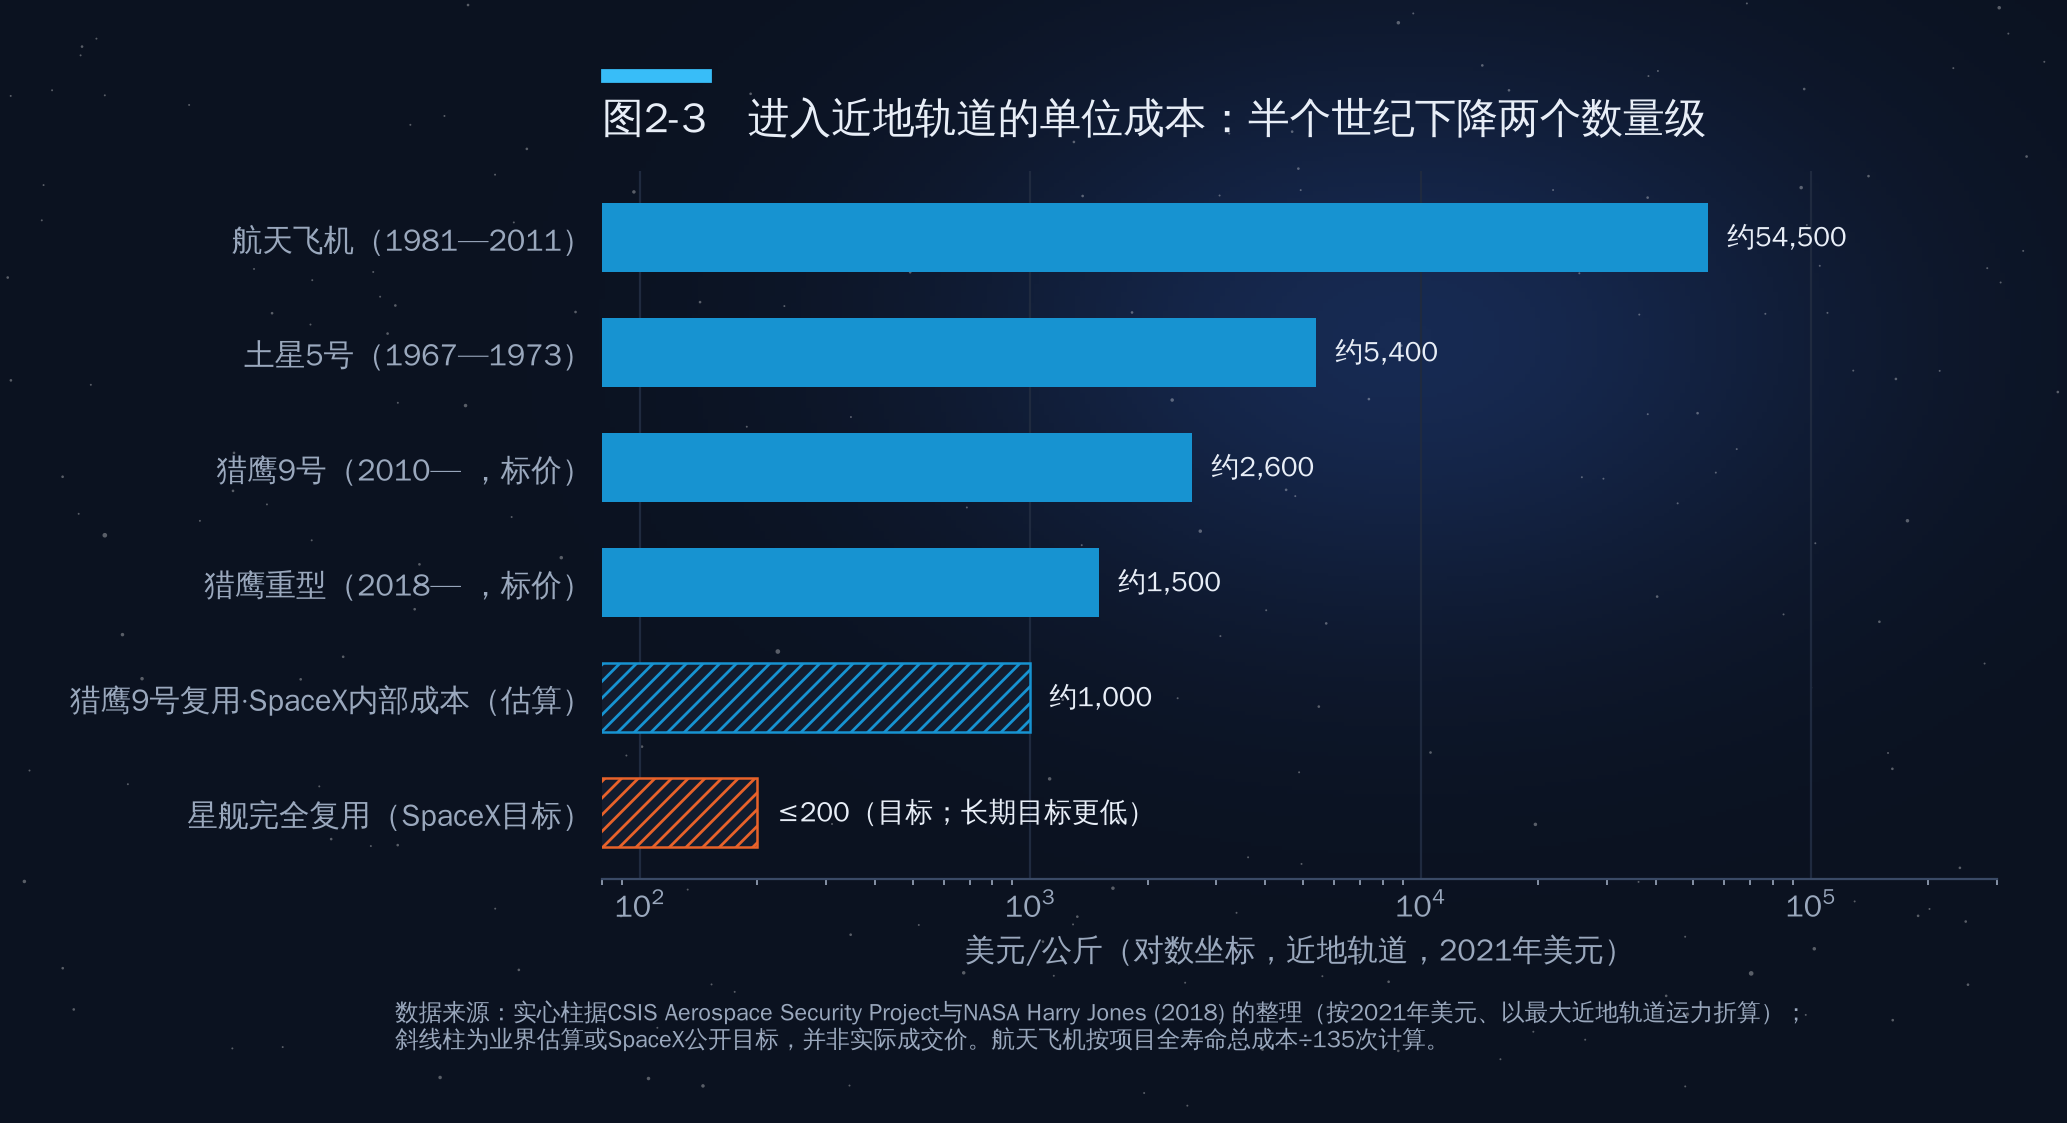
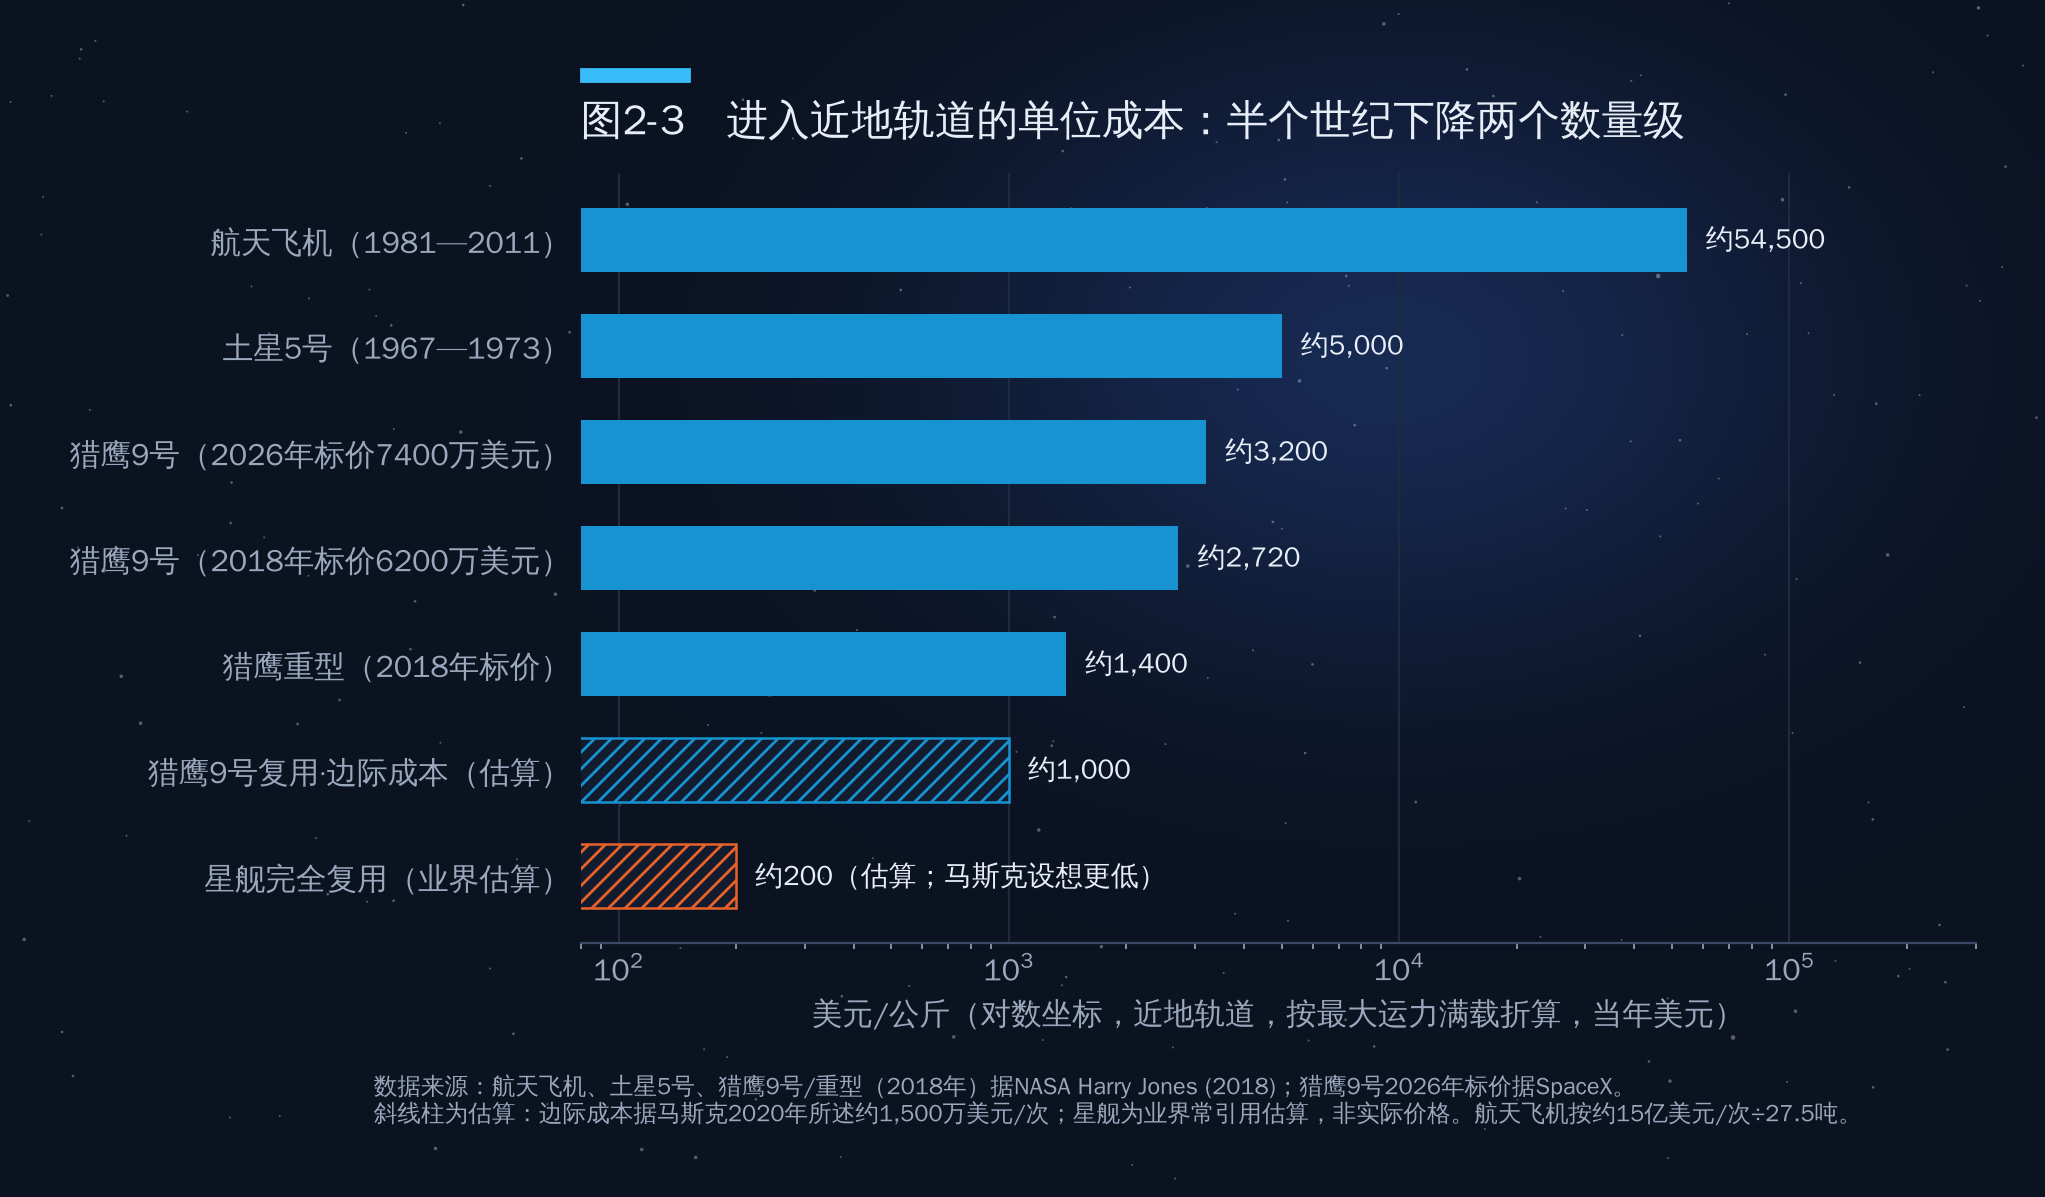
WIP: third-round fact-check edits (Parts I, IV, V)
Claude-Session: https://claude.ai/code/session_014tmLkR5ogaDPRCKC77QLgm

diff --git a/doha-space-economy/part1/charts/fig2-3_cost_per_kg.py b/doha-space-economy/part1/charts/fig2-3_cost_per_kg.py
@@ -2,24 +2,25 @@ import sys, pathlib
 sys.path.insert(0, str(pathlib.Path(__file__).resolve().parents[2] / "common"))
 from chartstyle import plt, PALETTE, ACCENT, GREY, save, source_note
 
-items = [("航天飞机（1981—2011）", 54500, "a"), ("土星5号（1967—1973）", 5400, "a"),
-         ("猎鹰9号（2010— ，标价）", 2600, "a"), ("猎鹰重型（2018— ，标价）", 1500, "a"),
-         ("猎鹰9号复用·SpaceX内部成本（估算）", 1000, "e"), ("星舰完全复用（SpaceX目标）", 200, "t")]
+items = [("航天飞机（1981—2011）", 54500, "a"), ("土星5号（1967—1973）", 5000, "a"),
+         ("猎鹰9号（2026年标价7400万美元）", 3200, "a"), ("猎鹰9号（2018年标价6200万美元）", 2720, "a"),
+         ("猎鹰重型（2018年标价）", 1400, "a"),
+         ("猎鹰9号复用·边际成本（估算）", 1000, "e"), ("星舰完全复用（业界估算）", 200, "t")]
 labels = [i[0] for i in items][::-1]
 vals = [i[1] for i in items][::-1]
 kinds = [i[2] for i in items][::-1]
-fig, ax = plt.subplots(figsize=(9, 4.6))
+fig, ax = plt.subplots(figsize=(9, 5.0))
 for lab, v, k in zip(labels, vals, kinds):
     if k == "a":
         ax.barh(lab, v, color=PALETTE[0], height=0.6)
     else:
         ax.barh(lab, v, color="white", edgecolor=ACCENT if k == "t" else PALETTE[0], hatch="////", height=0.6, linewidth=0.9)
-    txt = f"约{v:,}" if k != "t" else "≤200（目标；长期目标更低）"
+    txt = f"约{v:,}" if k != "t" else "约200（估算；马斯克设想更低）"
     ax.text(v * 1.12, lab, txt, va="center", fontsize=10)
 ax.set_xscale("log")
 ax.set_xlim(80, 300000)
 ax.grid(axis="x", color="#E5E5E5"); ax.grid(axis="y", visible=False)
-ax.set_xlabel("美元/公斤（对数坐标，近地轨道，2021年美元）")
+ax.set_xlabel("美元/公斤（对数坐标，近地轨道，按最大运力满载折算，当年美元）")
 ax.set_title("图2-3　进入近地轨道的单位成本：半个世纪下降两个数量级")
-source_note(fig, "数据来源：实心柱据CSIS Aerospace Security Project与NASA Harry Jones (2018) 的整理（按2021年美元、以最大近地轨道运力折算）；\n斜线柱为业界估算或SpaceX公开目标，并非实际成交价。航天飞机按项目全寿命总成本÷135次计算。")
+source_note(fig, "数据来源：航天飞机、土星5号、猎鹰9号/重型（2018年）据NASA Harry Jones (2018)；猎鹰9号2026年标价据SpaceX。\n斜线柱为估算：边际成本据马斯克2020年所述约1,500万美元/次；星舰为业界常引用估算，非实际价格。航天飞机按约15亿美元/次÷27.5吨。")
 save(fig, __file__)

diff --git a/doha-space-economy/part1/charts/fig6-1_telescopes.py b/doha-space-economy/part1/charts/fig6-1_telescopes.py
@@ -3,11 +3,11 @@ sys.path.insert(0, str(pathlib.Path(__file__).resolve().parents[2] / "common"))
 from chartstyle import plt, PALETTE, ACCENT, GREY, save, source_note
 
 # name, launch, aperture (m), band, note, launched?
-t = [("哈勃（1990）", 2.4, "紫外—可见光—近红外", "近地轨道约540公里", True),
+t = [("哈勃（1990）", 2.4, "紫外—可见光—近红外", "近地轨道（初始约600公里）", True),
      ("钱德拉（1999）", 1.2, "X射线", "大椭圆轨道", True),
      ("斯皮策（2003—2020）", 0.85, "红外", "尾随地球日心轨道", True),
-     ("开普勒（2009—2018）", 1.4, "可见光（凌星测光）", "尾随地球日心轨道", True),
-     ("盖亚（2013—2025）", 1.45, "可见光（天体测量）", "日地L2", True),
+     ("开普勒（2009—2018）", 0.95, "可见光（凌星测光；主镜1.4米）", "尾随地球日心轨道", True),
+     ("盖亚（2013—2025）", 1.45, "可见光（两面1.45×0.5米矩形主镜）", "日地L2", True),
      ("韦伯（2021）", 6.5, "近—中红外", "日地L2", True),
      ("欧几里得（2023）", 1.2, "可见光+近红外", "日地L2", True),
      ("罗曼（2026.8）", 2.4, "近红外广域巡天", "日地L2", True),
